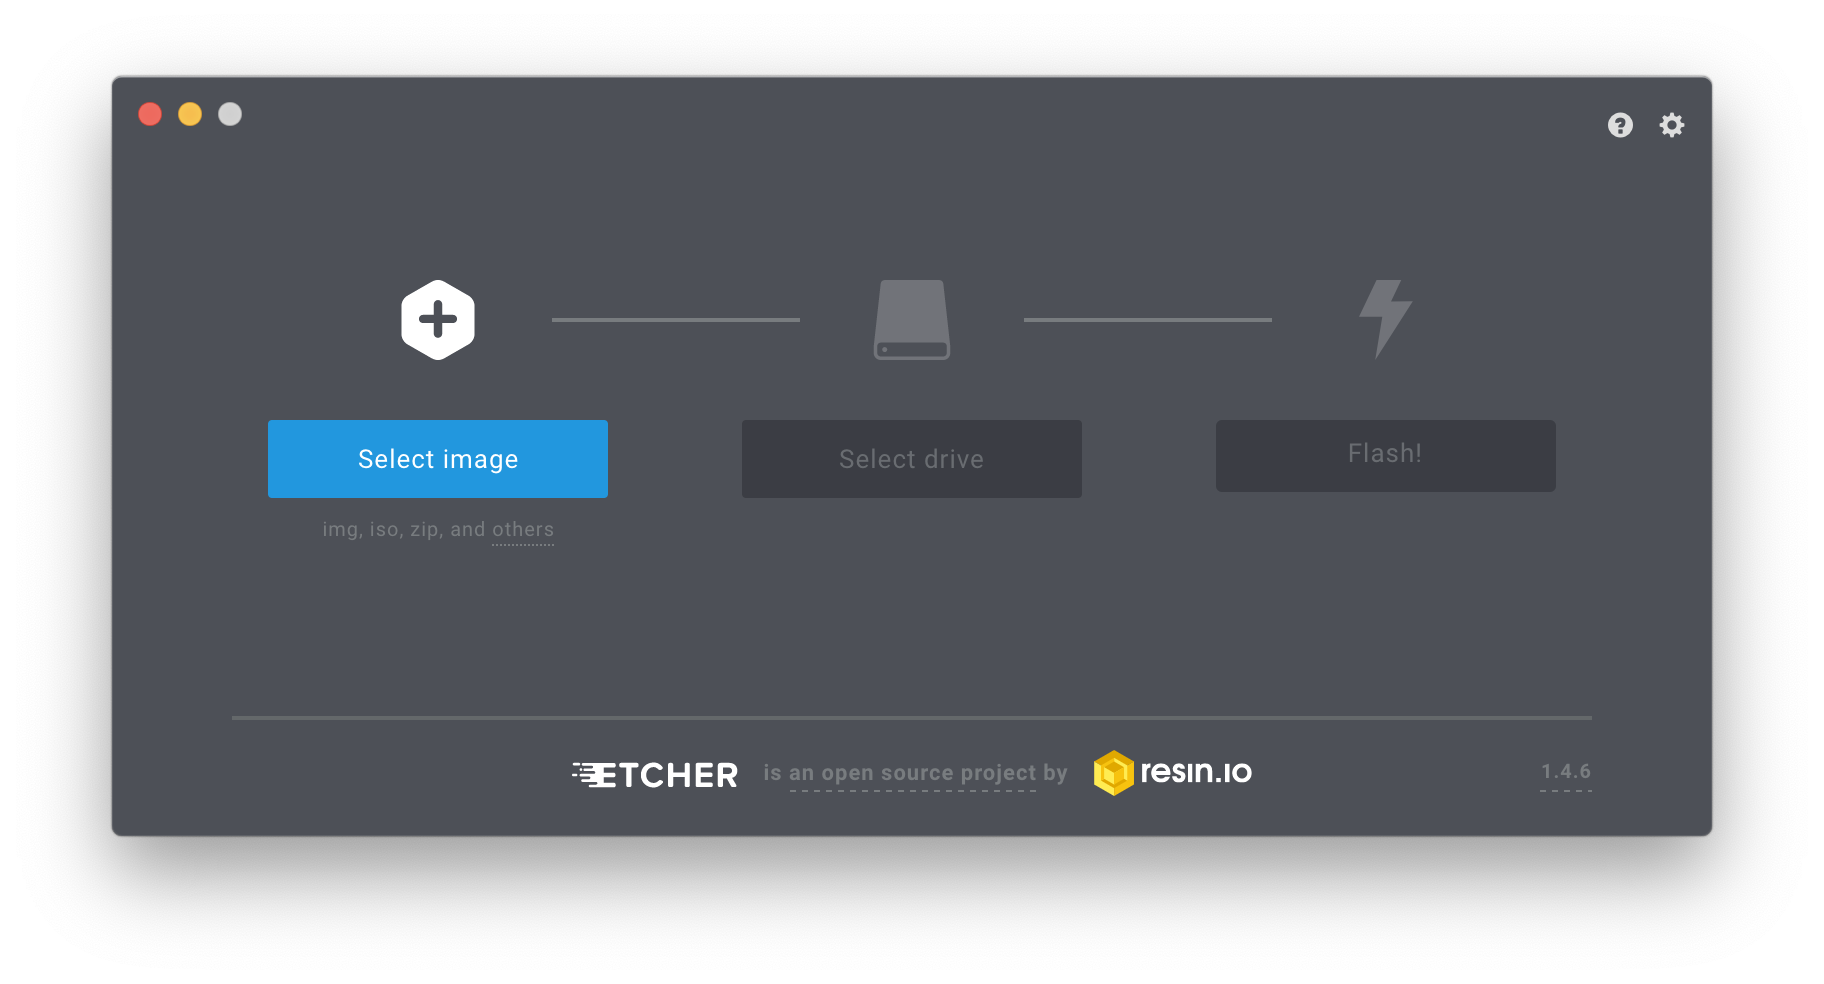
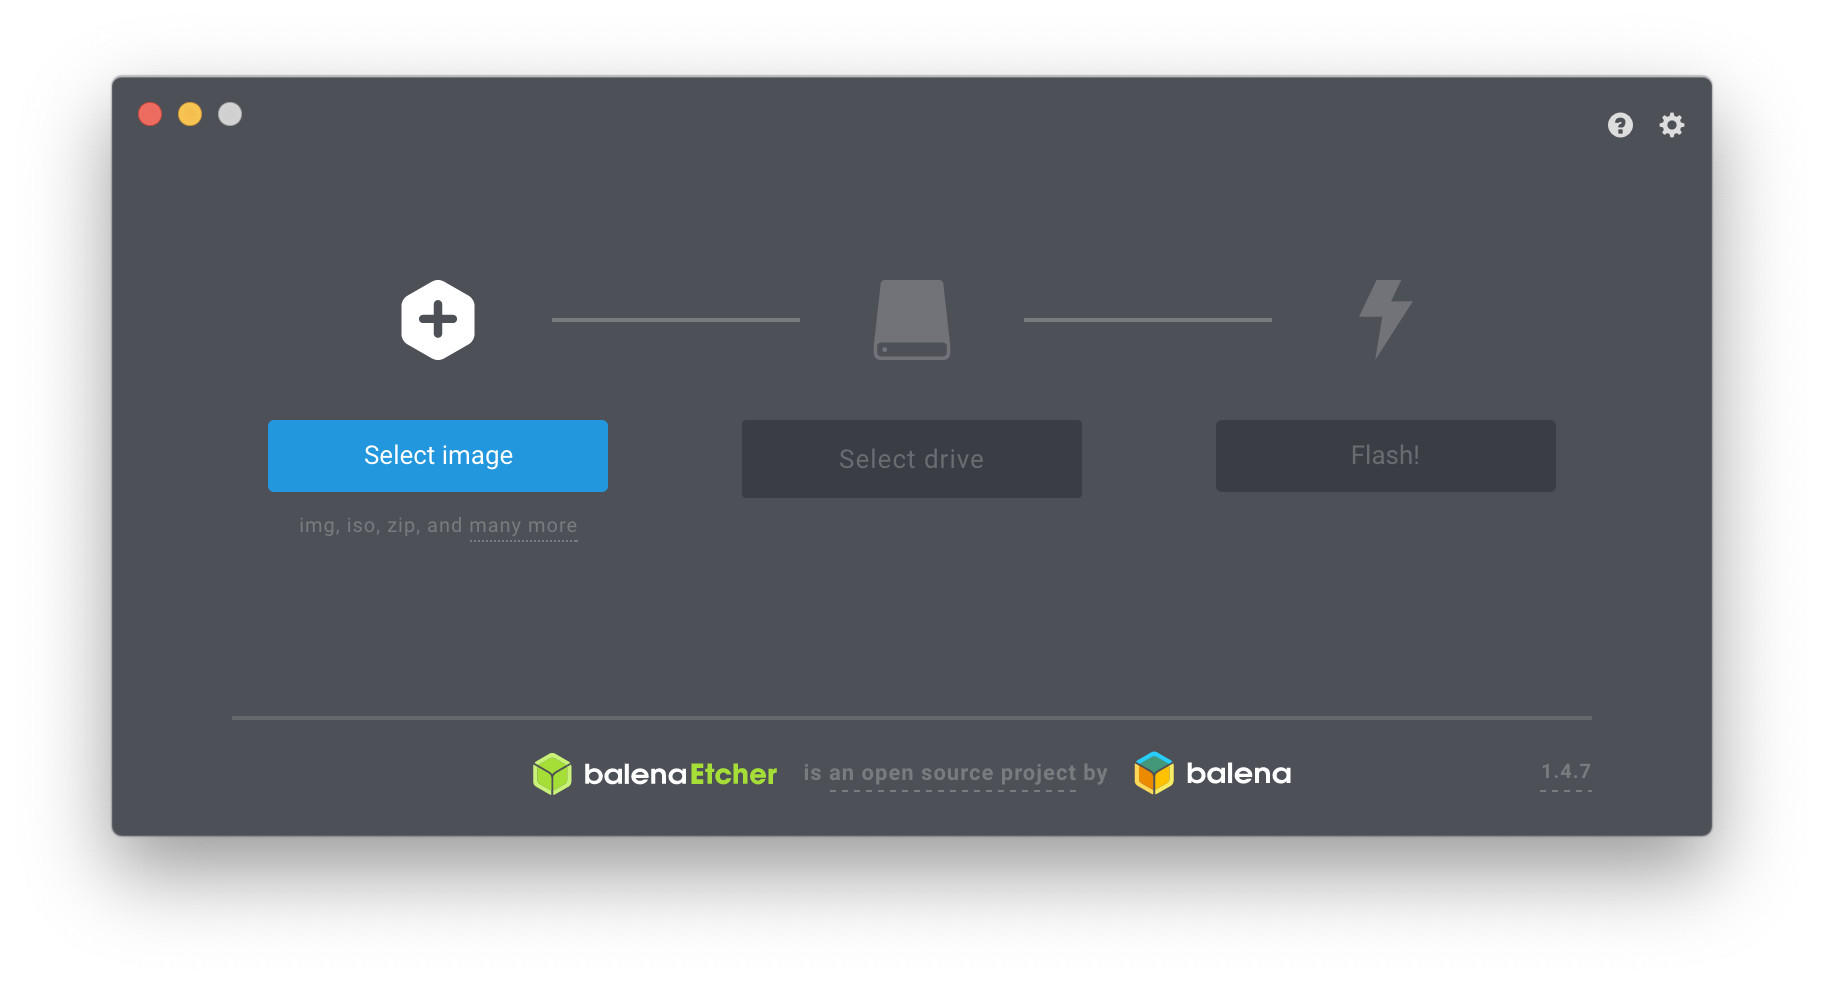
v1.4.7
Change-type: major

Changed region(s): [[0.2812, 0.7622, 0.7188, 0.8232], [0.1562, 0.4573, 0.3438, 0.5488], [0.75, 0.4573, 0.7812, 0.4878]]

diff --git a/CHANGELOG.md b/CHANGELOG.md
@@ -3,6 +3,18 @@
 All notable changes to this project will be documented in this file.
 This project adheres to [Semantic Versioning](http://semver.org/).
 
+## v1.4.7 - 2018-11-12
+
+### Fixes
+
+- Fix typo in contributing guidelines
+- Modify versionist.conf.js to match new internal commit guidelines
+
+### Misc
+
+- Rename etcher to balena-etcher
+- Convert Select Image button to Rendition
+
 ## v1.4.6 - 2018-10-28
 
 ### Fixes
